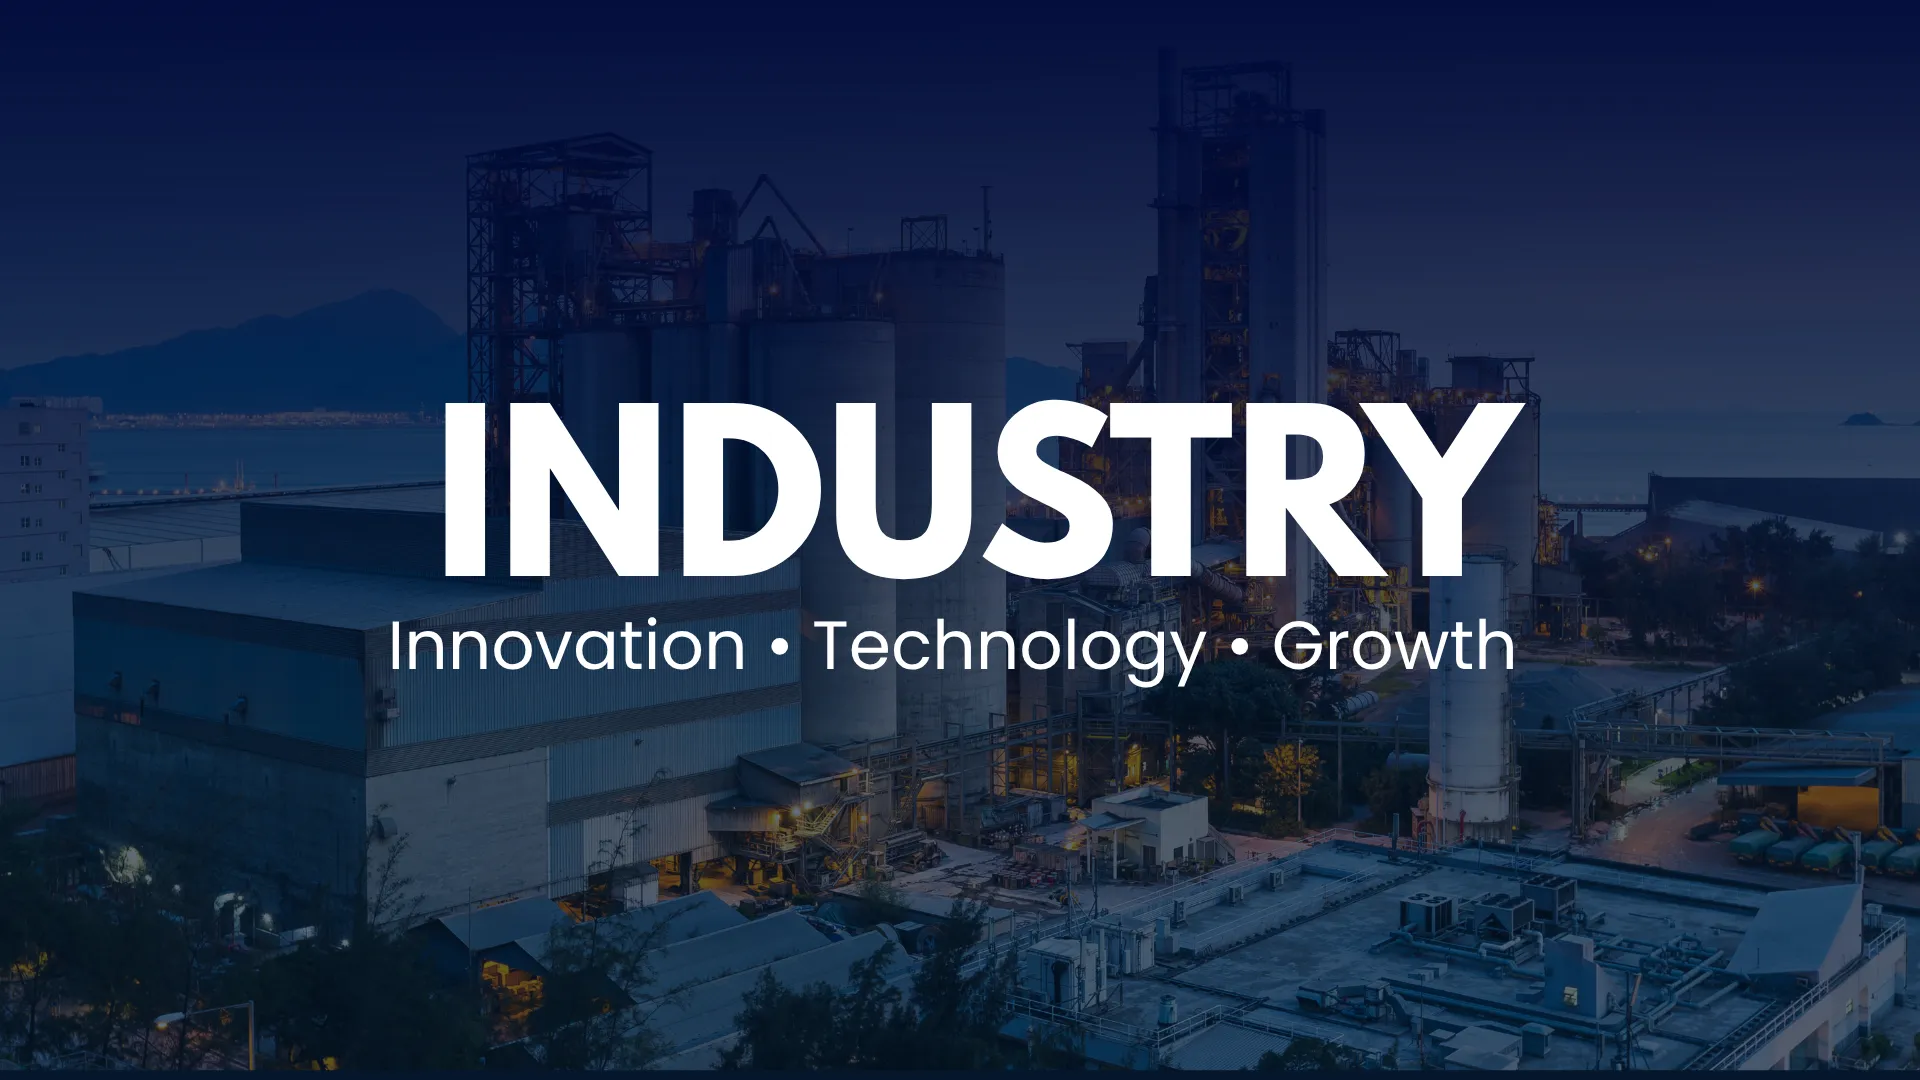
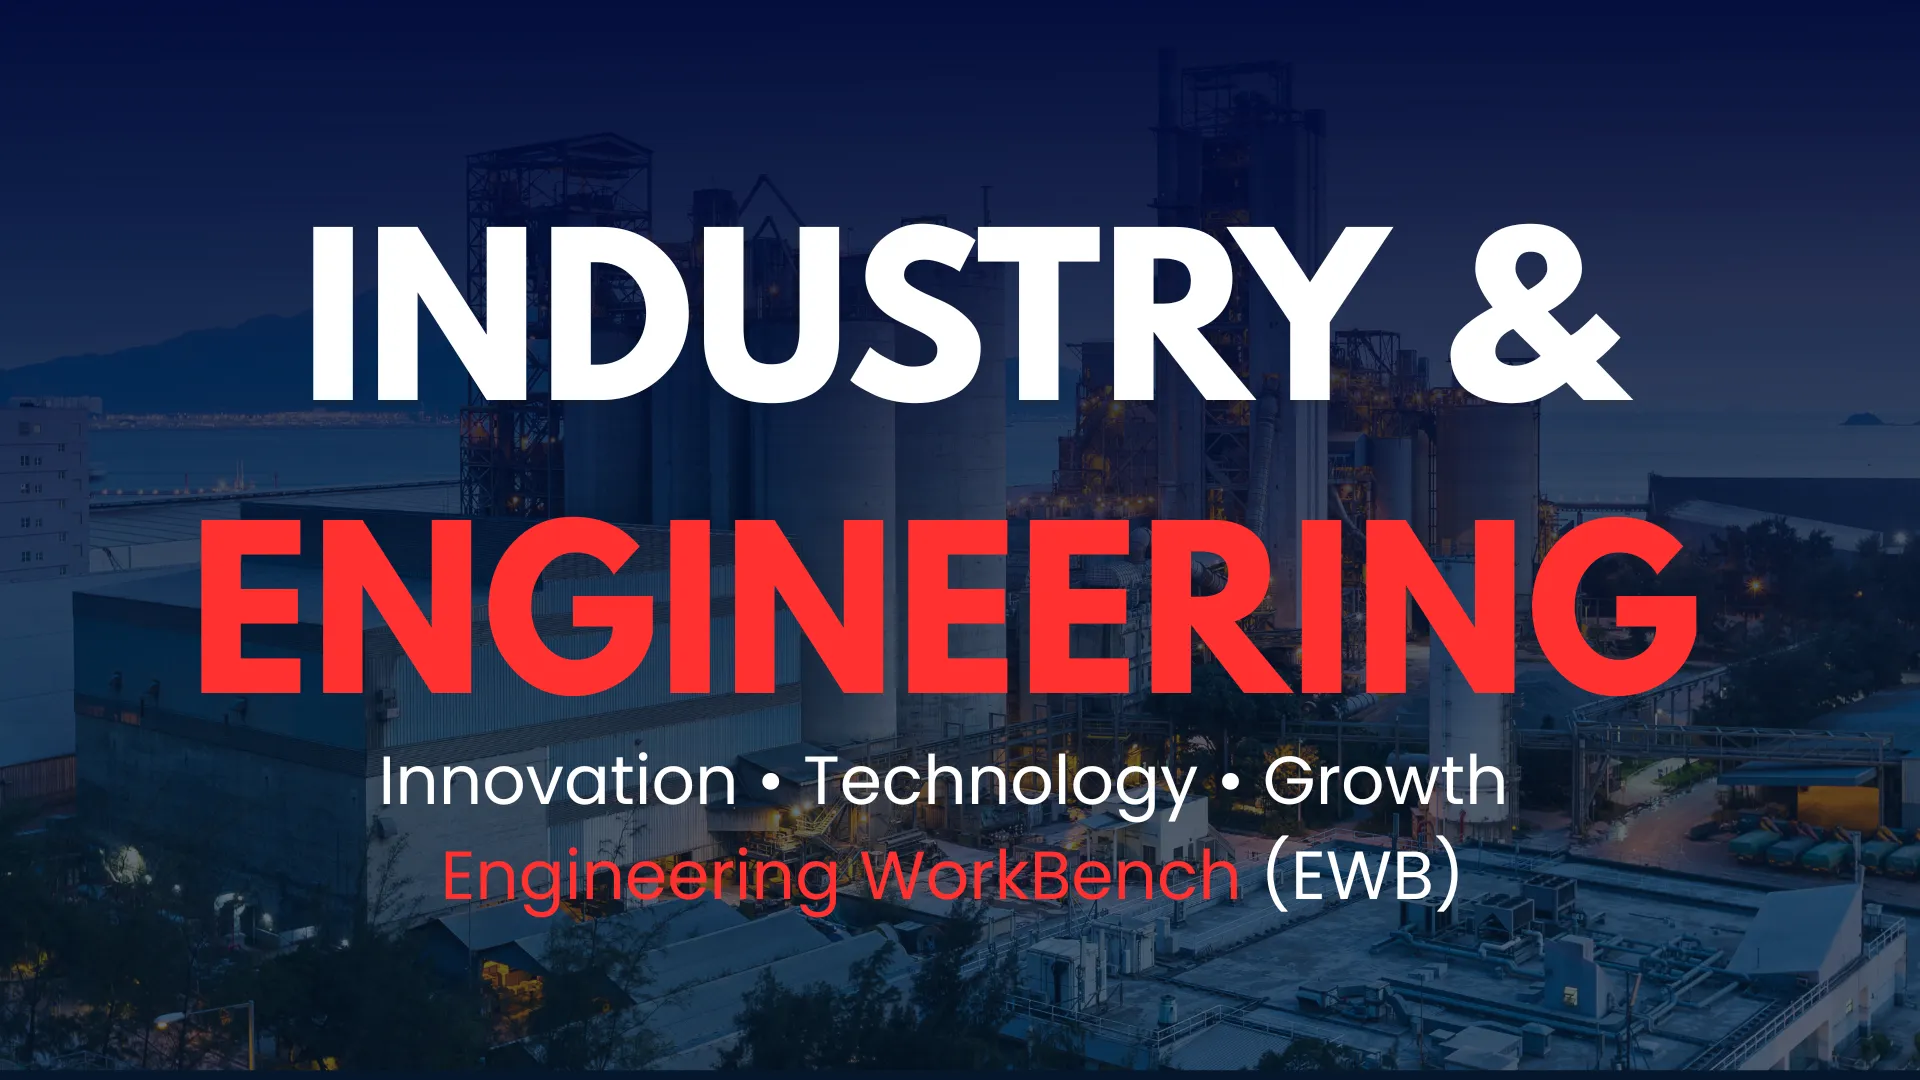
V54

Changed region(s): [[0.0938, 0.1833, 0.9062, 0.6417], [0.1875, 0.7028, 0.7812, 0.8556]]

diff --git a/src/pages/Services.tsx b/src/pages/Services.tsx
@@ -7,6 +7,7 @@ import {
   FileText,
 } from "lucide-react";
 import type { LucideIcon } from "lucide-react";
+import type { ReactNode } from "react";
 import { Link, useLocation } from "react-router-dom";
 import { useEffect } from "react";
 
@@ -22,7 +23,7 @@ import pressreaderLogo from "../assets/Photos/Publishers/PressReader/Background.
 interface Service {
   icon: LucideIcon;
   title: string;
-  description: string;
+  description: ReactNode;
   features: (string | { label: string; path: string })[];
   linkId?: string;
   path?: string;
@@ -39,10 +40,17 @@ export default function Services() {
       path: "/publishers#digital-library",
       image: imgIndustry,
       description:
-        "Pioneering digital library of international codes and standards for the oil & gas industry. Access to comprehensive collections of industry standards, technical codes, and best practices from leading organizations worldwide.",
+        <>
+          Leading and Pioneering in building <span className="font-bold text-red-600">
+            "{"Digital Library of International Codes and Standards"}"
+          </span> for the industry activities, Especially in the oil & gas industry.
+          
+          Access to comprehensive collections of industry technical codes, standards, best practices from leading SDO`s organizations worldwide.
+        </>
+        ,
       features: [
         {
-          label: "Such as ASME, API, ASTM, IEEE, ASME, IEC, NFPA , ACI, SAE, and more",
+          label: "Such as ASME, API, AASHTO, AENOR, ACI, BSI, DIN, GHOST, IEEE, IEC, NFPA , SAE, and more",
           path: "/publishers#engineering-physical",
         },
         { label: "ACCURIS", 
